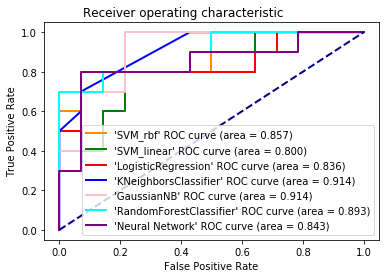
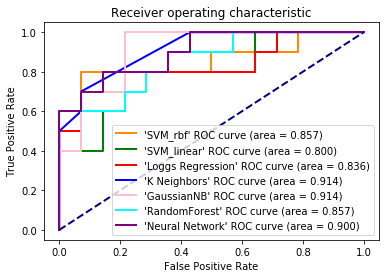
Add files via upload

Changed region(s): [[0.1234, 0.2302, 0.9563, 0.8633], [0.2159, 0.0288, 0.8021, 0.2878]]

diff --git a/performance.py b/performance.py
@@ -4,6 +4,7 @@ Created on Mon Nov 25 15:56:40 2019
 
 @author: Shiang Qi
 Finalized the mode and compare the performance
+Generate a stacking model
 """
 print(__doc__)
 import generalization_ability
@@ -11,16 +12,33 @@ import numpy as np
 import pickle
 import matplotlib.pyplot as plt
 
-from sklearn.model_selection import train_test_split, LeaveOneOut, KFold, GridSearchCV, cross_val_score
+from sklearn.model_selection import LeaveOneOut, KFold, GridSearchCV, cross_val_score
 from sklearn.svm import SVC
 from sklearn.metrics import roc_curve, auc
 from sklearn import linear_model
 from sklearn.neighbors import KNeighborsClassifier
-from sklearn.ensemble import RandomForestClassifier, AdaBoostClassifier, ExtraTreesClassifier, GradientBoostingClassifier
-from sklearn.tree import DecisionTreeClassifier
+from sklearn.ensemble import RandomForestClassifier
 from sklearn.naive_bayes import GaussianNB
 from sklearn.neural_network import MLPClassifier
 from sklearn.linear_model import LogisticRegression
+
+def get_out_fold(clf, x_train, y_train, x_test):
+    oof_train = np.zeros((x_train.shape[0],))
+    oof_test = np.zeros((x_test.shape[0],))
+    oof_test_skf = np.empty((NFOLDS, x_test.shape[0]))
+
+    for i, (train_index, test_index) in enumerate(kf.split(x_train)):
+        x_tr = x_train[train_index]
+        y_tr = y_train[train_index]
+        x_te = x_train[test_index]
+
+        clf.fit(x_tr, y_tr)
+
+        oof_train[test_index] = clf.predict(x_te)
+        oof_test_skf[i, :] = clf.predict(x_test)
+
+    oof_test[:] = oof_test_skf.mean(axis=0)
+    return oof_train.reshape(-1, 1), oof_test.reshape(-1, 1)
 
 if __name__ == '__main__':
     
@@ -36,26 +54,22 @@ if __name__ == '__main__':
         del pickle_data 
 
     print('Data and modules loaded.')
-    # label = label.astype(np.int32)
-    # Xtrain, Xtest, ytrain, ytest = train_test_split(data, label, test_size = 0.8, random_state = 42)
-    
-    # p_grid = {"C": [0.01, 0.1, 1, 10], "gamma": [0.0001, 0.001, 0.01, 0.1]}
-    # svm = SVC(kernel = 'linear', probability = True)
+
+
     classalgs = {
-        # 'SVM_rbf': SVC(kernel = 'rbf', probability = True),
+        'SVM_rbf': SVC(kernel = 'rbf', probability = True),
         'SVM_linear': SVC(kernel = 'linear', probability = True),
-        # 'Loggs Regression': LogisticRegression(penalty = 'l2', 
-        #                                         solver = 'liblinear'),
-        # 'K Neighbors': KNeighborsClassifier(),
-        # 'GaussianNB': GaussianNB(),
-        # 'RandomForest': RandomForestClassifier(n_estimators = 100, 
-                                                          # warm_start=True, 
-                                                          # max_features='sqrt',
-                                                          # max_depth=6, 
-                                                          # min_samples_split=3, 
-                                                          # min_samples_leaf=2, 
-                                                          # n_jobs=-1, 
-                                                          # verbose=0),
+        'Loggs Regression': LogisticRegression(penalty = 'l2', 
+                                                solver = 'liblinear'),
+        'K Neighbors': KNeighborsClassifier(),
+        'GaussianNB': GaussianNB(),
+        # 'RandomForest': RandomForestClassifier(n_estimators = 1000, 
+        #                                        warm_start=True, 
+        #                                        max_features='sqrt',
+        #                                        max_depth=None, 
+        #                                        min_samples_split=2, 
+        #                                        min_samples_leaf=1, 
+        #                                        n_jobs=-1),
         # 'Neural Network': MLPClassifier(solver = 'adam', max_iter = 1000),
     }
     p_grid = {
@@ -63,18 +77,17 @@ if __name__ == '__main__':
         'SVM_linear': {"C": [0.1, 1, 10], "gamma": [.01, .1]},
         'Loggs Regression': {"C": [0.1, 1, 10]},
         'K Neighbors': {"n_neighbors": np.arange(1, 10)},
-        'Neural Network': {"hidden_layer_sizes":[
-                                                 2, 3, 4, 5,
-                                                 (2, 2), (2, 3), (2, 4), (2, 5),
-                                                 (3, 2), (3, 3), (3, 4), (3, 5),
-                                                 (4, 2), (4, 3), (4, 4), (4, 5),
-                                                 (5, 2), (5, 3), (5, 4), (5, 5),],
+        'Neural Network': {"hidden_layer_sizes":[5, 7, 9,
+                                                 (5, 5), (5, 7), (5, 9),
+                                                 (7, 5), (7, 7), (7, 9),
+                                                 (9, 5), (9, 7), (9, 9),],
                             "activation": ['relu', 'logistic']},
         'RandomForest': {"n_estimators": [10, 100, 1000]}
     }
     plt.figure(1)
     i = 0
     color = ['darkorange', 'green', 'red', 'blue', 'pink', 'cyan', 'purple', 'salmon']
+    linewidth = 2
     for alg_name, alg in classalgs.items():
         
         loo = LeaveOneOut()
@@ -84,7 +97,7 @@ if __name__ == '__main__':
         print(clf.best_params_)
         probas = clf.predict_proba(Xtest)[:, 1]
         acc = 1- np.sum(np.abs(clf.predict(Xtest) - ytest)) / len(ytest)
-        
+        print("%r model accuracy is: %0.3f" % (alg_name, acc))
         # Compute ROC curve and ROC area for each class
         fpr = dict()
         tpr = dict()
@@ -94,7 +107,6 @@ if __name__ == '__main__':
         roc_auc = auc(fpr, tpr)
         
         
-        linewidth = 2
         plt.plot(fpr, tpr, color = color[i], lw = linewidth,
                  label='%r ROC curve (area = %0.3f)' % (alg_name, roc_auc))
         i += 1
@@ -104,6 +116,71 @@ if __name__ == '__main__':
     plt.ylim([-0.05, 1.05])
     plt.xlabel('False Positive Rate')
     plt.ylabel('True Positive Rate')
-    plt.title('Receiver operating characteristic example')
+    plt.title('Receiver operating characteristic')
+    plt.legend(loc = "lower right")
+    plt.show()
+    
+    """
+    Ensemble a stacking model:
+        1st layer: KNN, Gaussian Naive Bayes, RandomForest
+        2st layer: 
+    """
+    SEED = 0 # for reproducibility
+    NFOLDS = 5 # set folds for out-of-fold prediction
+    kf = KFold(n_splits = NFOLDS, random_state=SEED, shuffle=False)
+
+    svmrbf = SVC(kernel = 'rbf', probability = True, gamma = 0.01, C = 1)
+    svmlinear = SVC(kernel = 'linear', probability = True, gamma = 0.01, C = 10)
+    lr = LogisticRegression(penalty = 'l2', solver = 'liblinear', C = 0.1)
+    rf = RandomForestClassifier(n_estimators = 100, warm_start = False,
+                                max_features='auto', max_depth=None, 
+                                min_samples_split=2, min_samples_leaf = 1, 
+                                n_jobs=-1)
+    knn = KNeighborsClassifier(n_neighbors = 5)
+    gnb = GaussianNB()
+    nn = MLPClassifier(hidden_layer_sizes = (5, 7), solver = 'adam', max_iter = 1000, activation = 'relu')
+    
+    svmrbf_oof_train, svmrbf_oof_test = get_out_fold(svmrbf, Xtrain, ytrain, Xtest)
+    svmlinear_oof_train, svmlinear_oof_test = get_out_fold(svmlinear, Xtrain, ytrain, Xtest)
+    lr_oof_train, lr_oof_test = get_out_fold(lr, Xtrain, ytrain, Xtest)
+    rf_oof_train, rf_oof_test = get_out_fold(rf, Xtrain, ytrain, Xtest)
+    knn_oof_train, knn_oof_test = get_out_fold(knn, Xtrain, ytrain, Xtest)
+    gnb_oof_train, gnb_oof_test = get_out_fold(gnb, Xtrain, ytrain, Xtest)
+    nn_oof_train, nn_oof_test = get_out_fold(nn, Xtrain, ytrain, Xtest)
+    
+    x_train_2nd = np.concatenate((svmrbf_oof_train, svmlinear_oof_train, 
+                                  lr_oof_train, rf_oof_train, knn_oof_train, 
+                                  gnb_oof_train, nn_oof_train), axis = 1)
+    x_test_2nd = np.concatenate((svmrbf_oof_test, svmlinear_oof_test, 
+                                 lr_oof_test, rf_oof_test, knn_oof_test, 
+                                 gnb_oof_test, nn_oof_test), axis = 1)
+    
+
+    clf = LogisticRegression(penalty = 'l2', C = 0.1, solver = 'liblinear')
+    clf.fit(x_train_2nd, ytrain)
+    
+    # clf = RandomForestClassifier(n_estimators = 1000, warm_start=False, max_features='auto', max_depth= None, min_samples_split=2, min_samples_leaf=1, n_jobs=-1)
+    # clf.fit(x_train_2nd, ytrain)
+    
+    probas = clf.predict_proba(x_test_2nd)[:, 1]
+    acc = 1 - np.sum(np.abs(clf.predict(x_test_2nd) - ytest)) / len(ytest)
+    print("Stacking model accuracy: %0.3f" % (acc))
+    # Compute ROC curve and ROC area for the stacking model
+    fpr = dict()
+    tpr = dict()
+    roc_auc = dict()
+    fpr, tpr, thresholds = roc_curve(ytest, probas, pos_label = 1)
+    roc_auc = auc(fpr, tpr)
+    
+    
+    plt.figure()
+    plt.plot(fpr, tpr, color = 'green', lw = linewidth, 
+             label='%r ROC curve (area = %0.3f)' % ("Stacking Model", roc_auc))
+    plt.plot([0, 1], [0, 1], color = 'navy', lw = linewidth, linestyle = '--')
+    plt.xlim([-0.05, 1.05])
+    plt.ylim([-0.05, 1.05])
+    plt.xlabel('False Positive Rate')
+    plt.ylabel('True Positive Rate')
+    plt.title('Receiver operating characteristic')
     plt.legend(loc = "lower right")
     plt.show()

diff --git a/generalization_ability.py b/generalization_ability.py
@@ -14,7 +14,7 @@ from collections import Counter
 from sklearn import linear_model
 from sklearn.svm import SVC
 from sklearn.neighbors import KNeighborsClassifier
-from sklearn.ensemble import RandomForestClassifier, AdaBoostClassifier, ExtraTreesClassifier, GradientBoostingClassifier
+from sklearn.ensemble import RandomForestClassifier
 from sklearn.tree import DecisionTreeClassifier
 from sklearn.model_selection import train_test_split, LeaveOneOut, KFold, GridSearchCV, cross_val_score
 from sklearn.naive_bayes import GaussianNB
@@ -24,7 +24,7 @@ from sklearn.linear_model import LogisticRegression
 def get_top_n_features(data, label, num_runs = 1000, remaining_features_num = 10):
     idx_matrx = np.zeros([num_runs, remaining_features_num])
     for i in range(num_runs):
-        clf = linear_model.SGDClassifier(penalty = 'elasticnet', alpha = 0.0001, max_iter = 1000, tol = 1e-6, shuffle = True)
+        clf = linear_model.SGDClassifier(penalty = 'elasticnet', alpha = 0.0001, max_iter = 1000, tol = 1e-6, shuffle = True, random_state = i)
         clf.fit(data, label)
         weights = clf.coef_
     
@@ -82,7 +82,8 @@ if __name__ == '__main__':
     Xtest = Xtest[:, features_idx]
     
     pickle_file = 'SH_selected_features.pickle'
-    if not os.path.isfile(pickle_file):    #判断是否存在此文件，若无则存储
+    # determine whether the file is exist, if not, save date to pickle file
+    if not os.path.isfile(pickle_file):    
         print('Saving data to pickle file...')
         try:
             with open('SH_selected_features.pickle', 'wb') as pfile:
@@ -121,26 +122,25 @@ if __name__ == '__main__':
         'KNeighborsClassifier': KNeighborsClassifier(),
         'GaussianNB': GaussianNB(),
         'RandomForestClassifier': RandomForestClassifier(n_estimators = 100, 
-                                                         warm_start=True, 
-                                                         max_features='sqrt',
-                                                         max_depth=6, 
-                                                         min_samples_split=3, 
-                                                         min_samples_leaf=2, 
-                                                         n_jobs=-1, 
-                                                         verbose=0),
-        'Neural Network': MLPClassifier(solver = 'adam'),
+                                                          warm_start=True, 
+                                                          max_features='sqrt',
+                                                          max_depth=None, 
+                                                          min_samples_split=2, 
+                                                          min_samples_leaf=1, 
+                                                          n_jobs=-1),
+        # 'Neural Network': MLPClassifier(solver = 'adam', max_iter = 1000),
     }
     p_grid = {
         'SVM_rbf': {"C": [0.1, 1, 10], "gamma": [.01, .1]},
         'SVM_linear': {"C": [0.1, 1, 10], "gamma": [.01, .1]},
         'LogisticRegression': {"C": [0.1, 1, 10]},
-        'KNeighborsClassifier': {"n_neighbors": np.arange(1, 6)},
-        'Neural Network': {"hidden_layer_sizes":[2, 3, 4, 5,
-                                                 (2, 2), (2, 3), (2, 4), (2, 5),
-                                                 (3, 2), (3, 3), (3, 4), (3, 5),
-                                                 (4, 2), (4, 3), (4, 4), (4, 5),
-                                                 (5, 2), (5, 3), (5, 4), (5, 5),],
+        'KNeighborsClassifier': {"n_neighbors": np.arange(1, 10)},
+        'Neural Network': {"hidden_layer_sizes":[5, 7, 9,
+                                                 (5, 5), (5, 7), (5, 9),
+                                                 (7, 5), (7, 7), (7, 9),
+                                                 (9, 5), (9, 7), (9, 9),],
                             "activation": ['relu', 'logistic'],
+        'RandomForest': {"n_estimators": [10, 100, 1000]}
         }
     }
     

diff --git a/data_preprocess.py b/data_preprocess.py
@@ -45,7 +45,7 @@ def trim_data(data):
     
     return data, label
 
-def abandon_useless_features(data, non_zero_rate_threshold = 1):
+def abandon_useless_features(data, non_zero_rate_threshold = 0.95):
     count_non_zero = np.count_nonzero(data, axis = 0)
     non_zero_rate = count_non_zero / data.shape[0]
     useless_feature_index = np.argwhere(non_zero_rate < non_zero_rate_threshold)
@@ -64,7 +64,8 @@ if __name__ == '__main__':
     data = StandardScaler().fit_transform(data)
     
     pickle_file = 'SH.pickle'
-    if not os.path.isfile(pickle_file):    #判断是否存在此文件，若无则存储
+    # determine whether the file is exist, if not, save date to pickle file
+    if not os.path.isfile(pickle_file):    
         print('Saving data to pickle file...')
         try:
             with open('SH.pickle', 'wb') as pfile:
